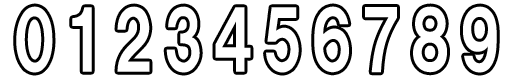
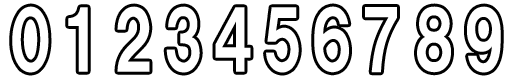
弾の最大数のスプライトの表示 少しNumberの位置をずらした

Changed region(s): [[0.7812, 0.025, 1.0, 0.95], [0.0, 0.025, 0.1875, 0.95]]

diff --git a/2025afterGame/GameSources/Scene.cpp b/2025afterGame/GameSources/Scene.cpp
@@ -53,6 +53,9 @@ namespace basecross{
     
 		auto startTex = uiTitlePath + L"PressA.png";
 		App::GetApp()->RegisterTexture(L"Start_TX", startTex);
+
+		auto remainingRounds = uiPlayerPath + L"RemainingRounds.png";
+		App::GetApp()->RegisterTexture(L"RemainingRounds", remainingRounds);
     
 		// Effect /////////////////////////////////////////////
 		EffectManager::Instance().CreateEfkInterface();
@@ -69,7 +72,7 @@ namespace basecross{
 
 			//自分自身にイベントを送る
 			//これにより各ステージやオブジェクトがCreate時にシーンにアクセスできる
-			PostEvent(0.0f, GetThis<ObjectInterface>(), GetThis<Scene>(), L"ToTitleStage");			
+			PostEvent(0.0f, GetThis<ObjectInterface>(), GetThis<Scene>(), L"ToTomokiStage");			
 			
 			CreateResource();
 

diff --git a/2025afterGame/GameSources/UIManager.cpp b/2025afterGame/GameSources/UIManager.cpp
@@ -115,8 +115,7 @@ namespace basecross
 		auto bullet = stage->AddGameObject<NumberSprite>(Vec2(40.0f, 40.0f),Vec3(-550.0f, 330.0f, 0.0f));
 		bullet->SetMyType(NumberType::Bullet);
 
-		auto maxBullet = stage->AddGameObject<NumberSprite>(Vec2(40.0f,40.0f),Vec3(-430.0f, 330.0f, 0.0f));
-		maxBullet->SetMyType(NumberType::MaxBullet);
+		auto maxBullet = stage->AddGameObject<Sprite>(L"RemainingRounds",Vec2(200.0f, 60.0f), Vec3(-510.0f, 330.0f, 0.0f));
 		
 		auto minuteTimer = stage->AddGameObject<NumberSprite>(Vec2(50.0f,50.0f),Vec3(470.0f, 375.0f, 0.0f));
 		minuteTimer->SetMyType(NumberType::Minute);
